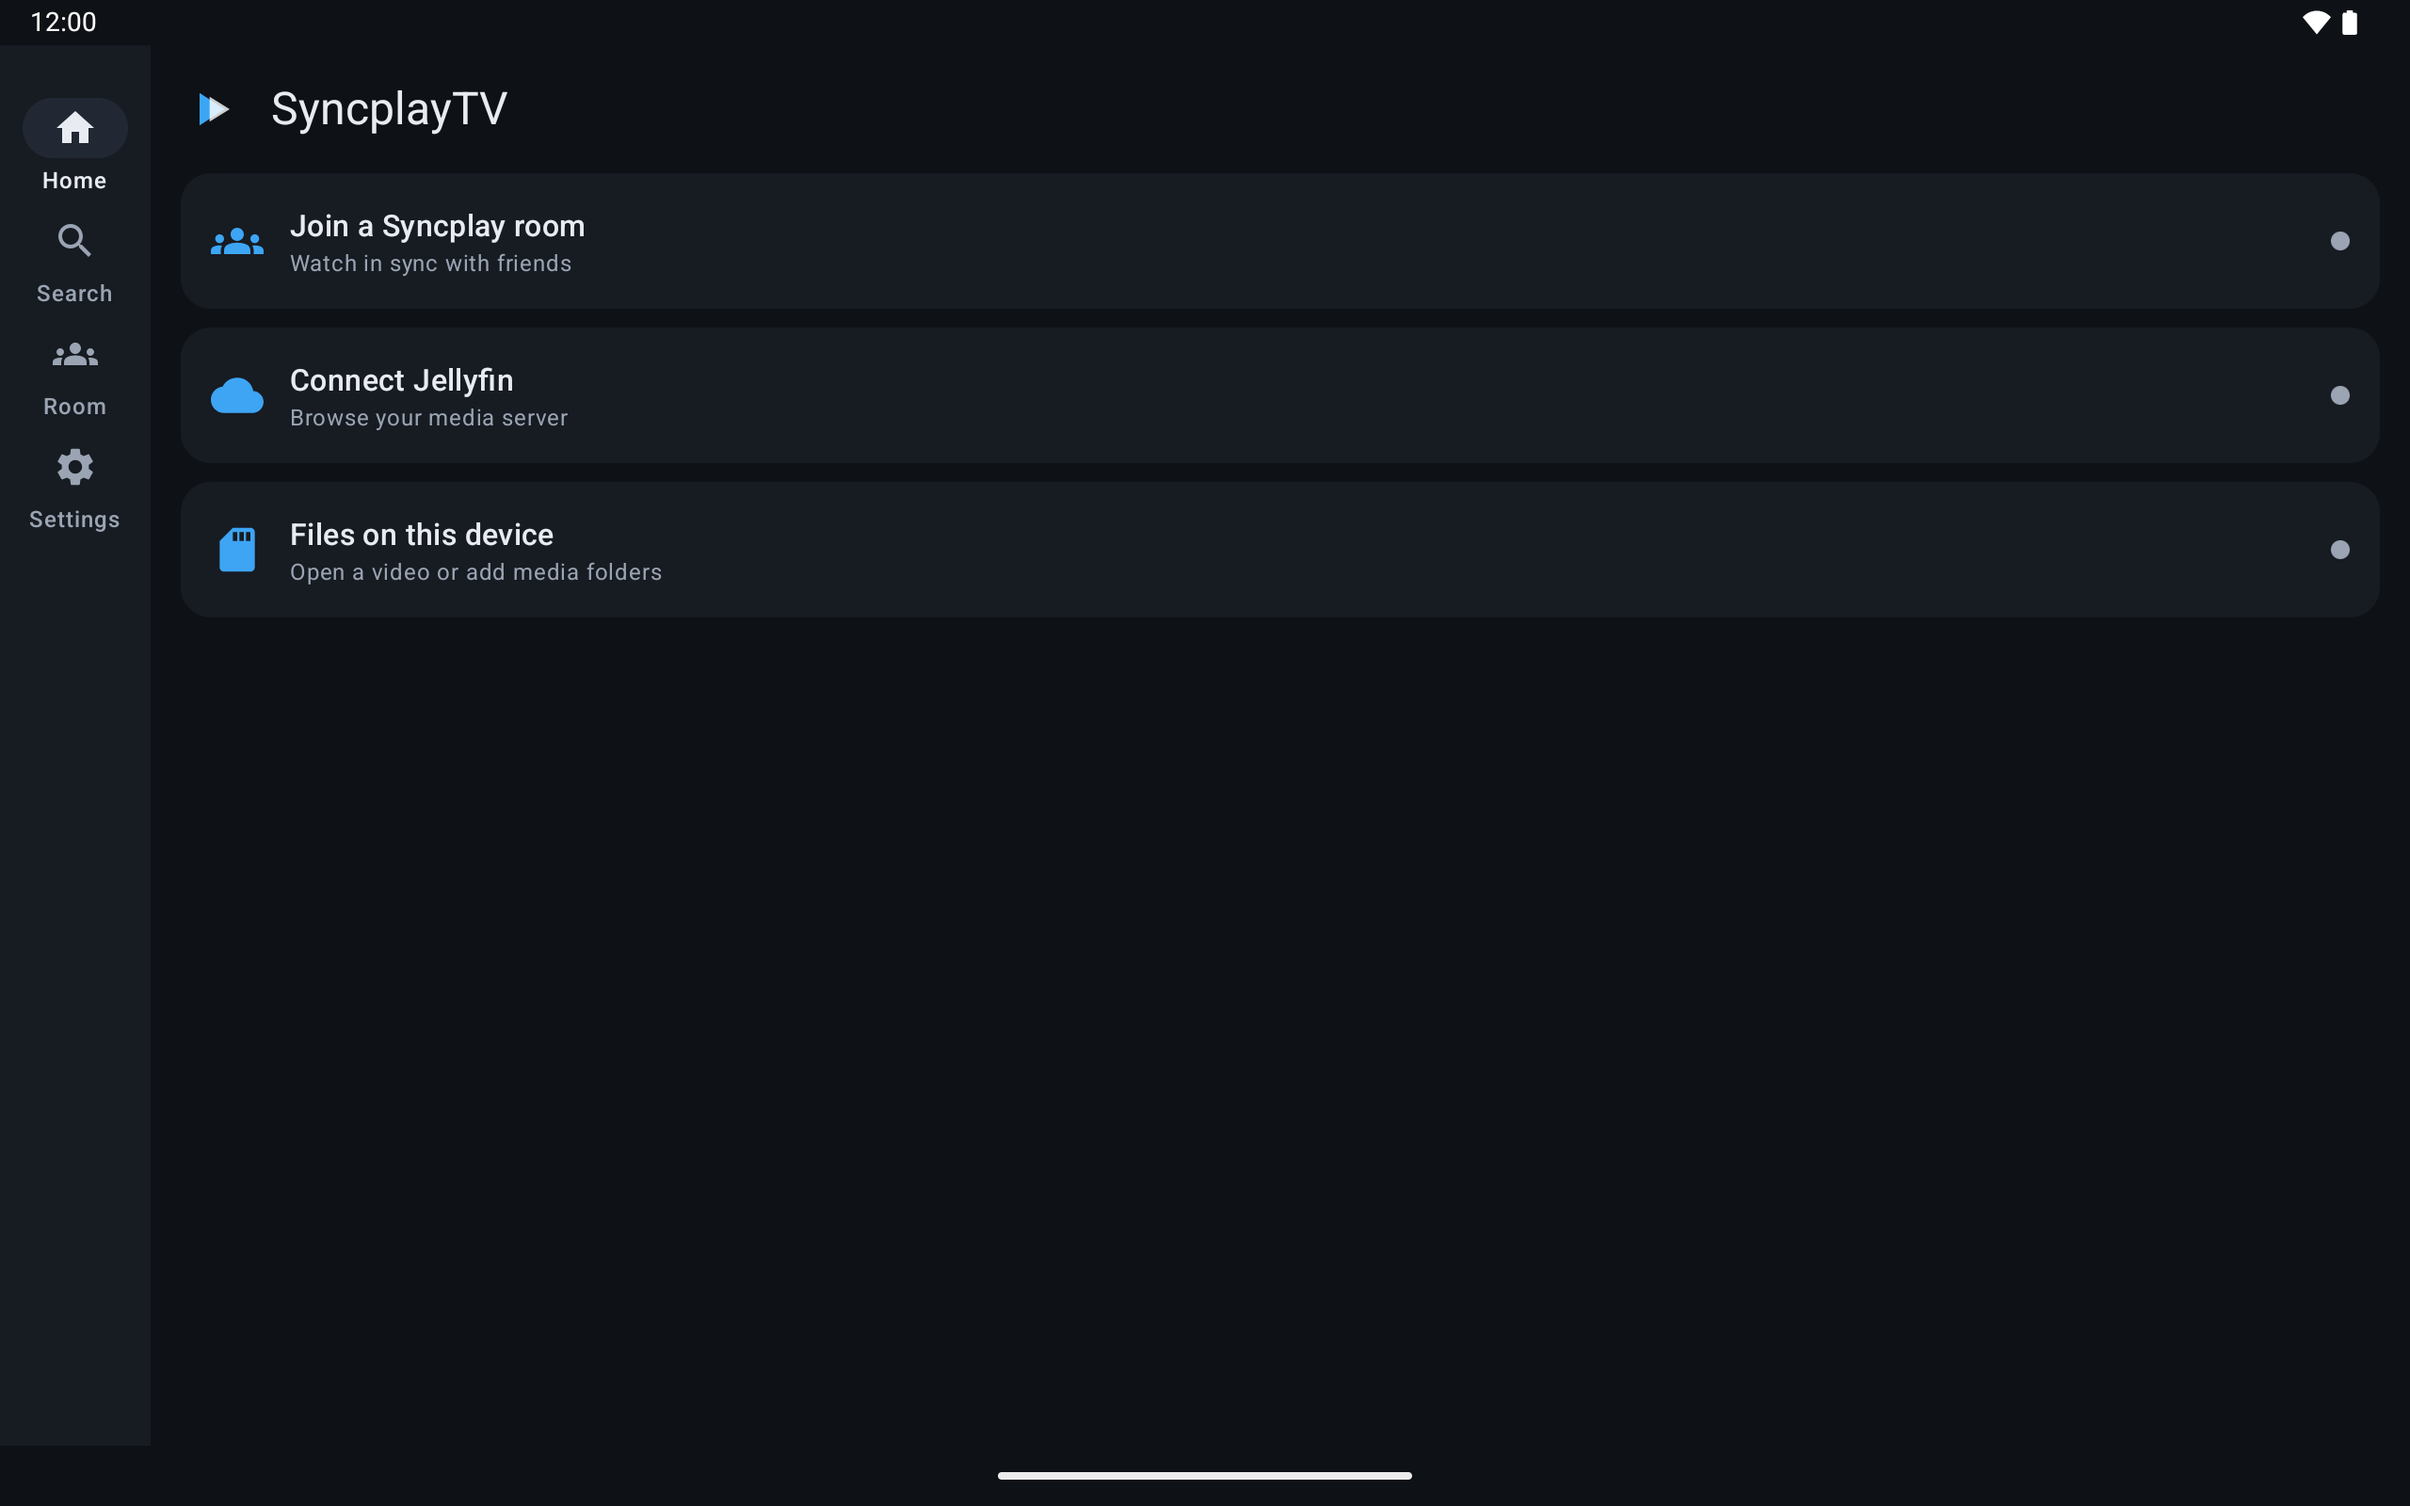
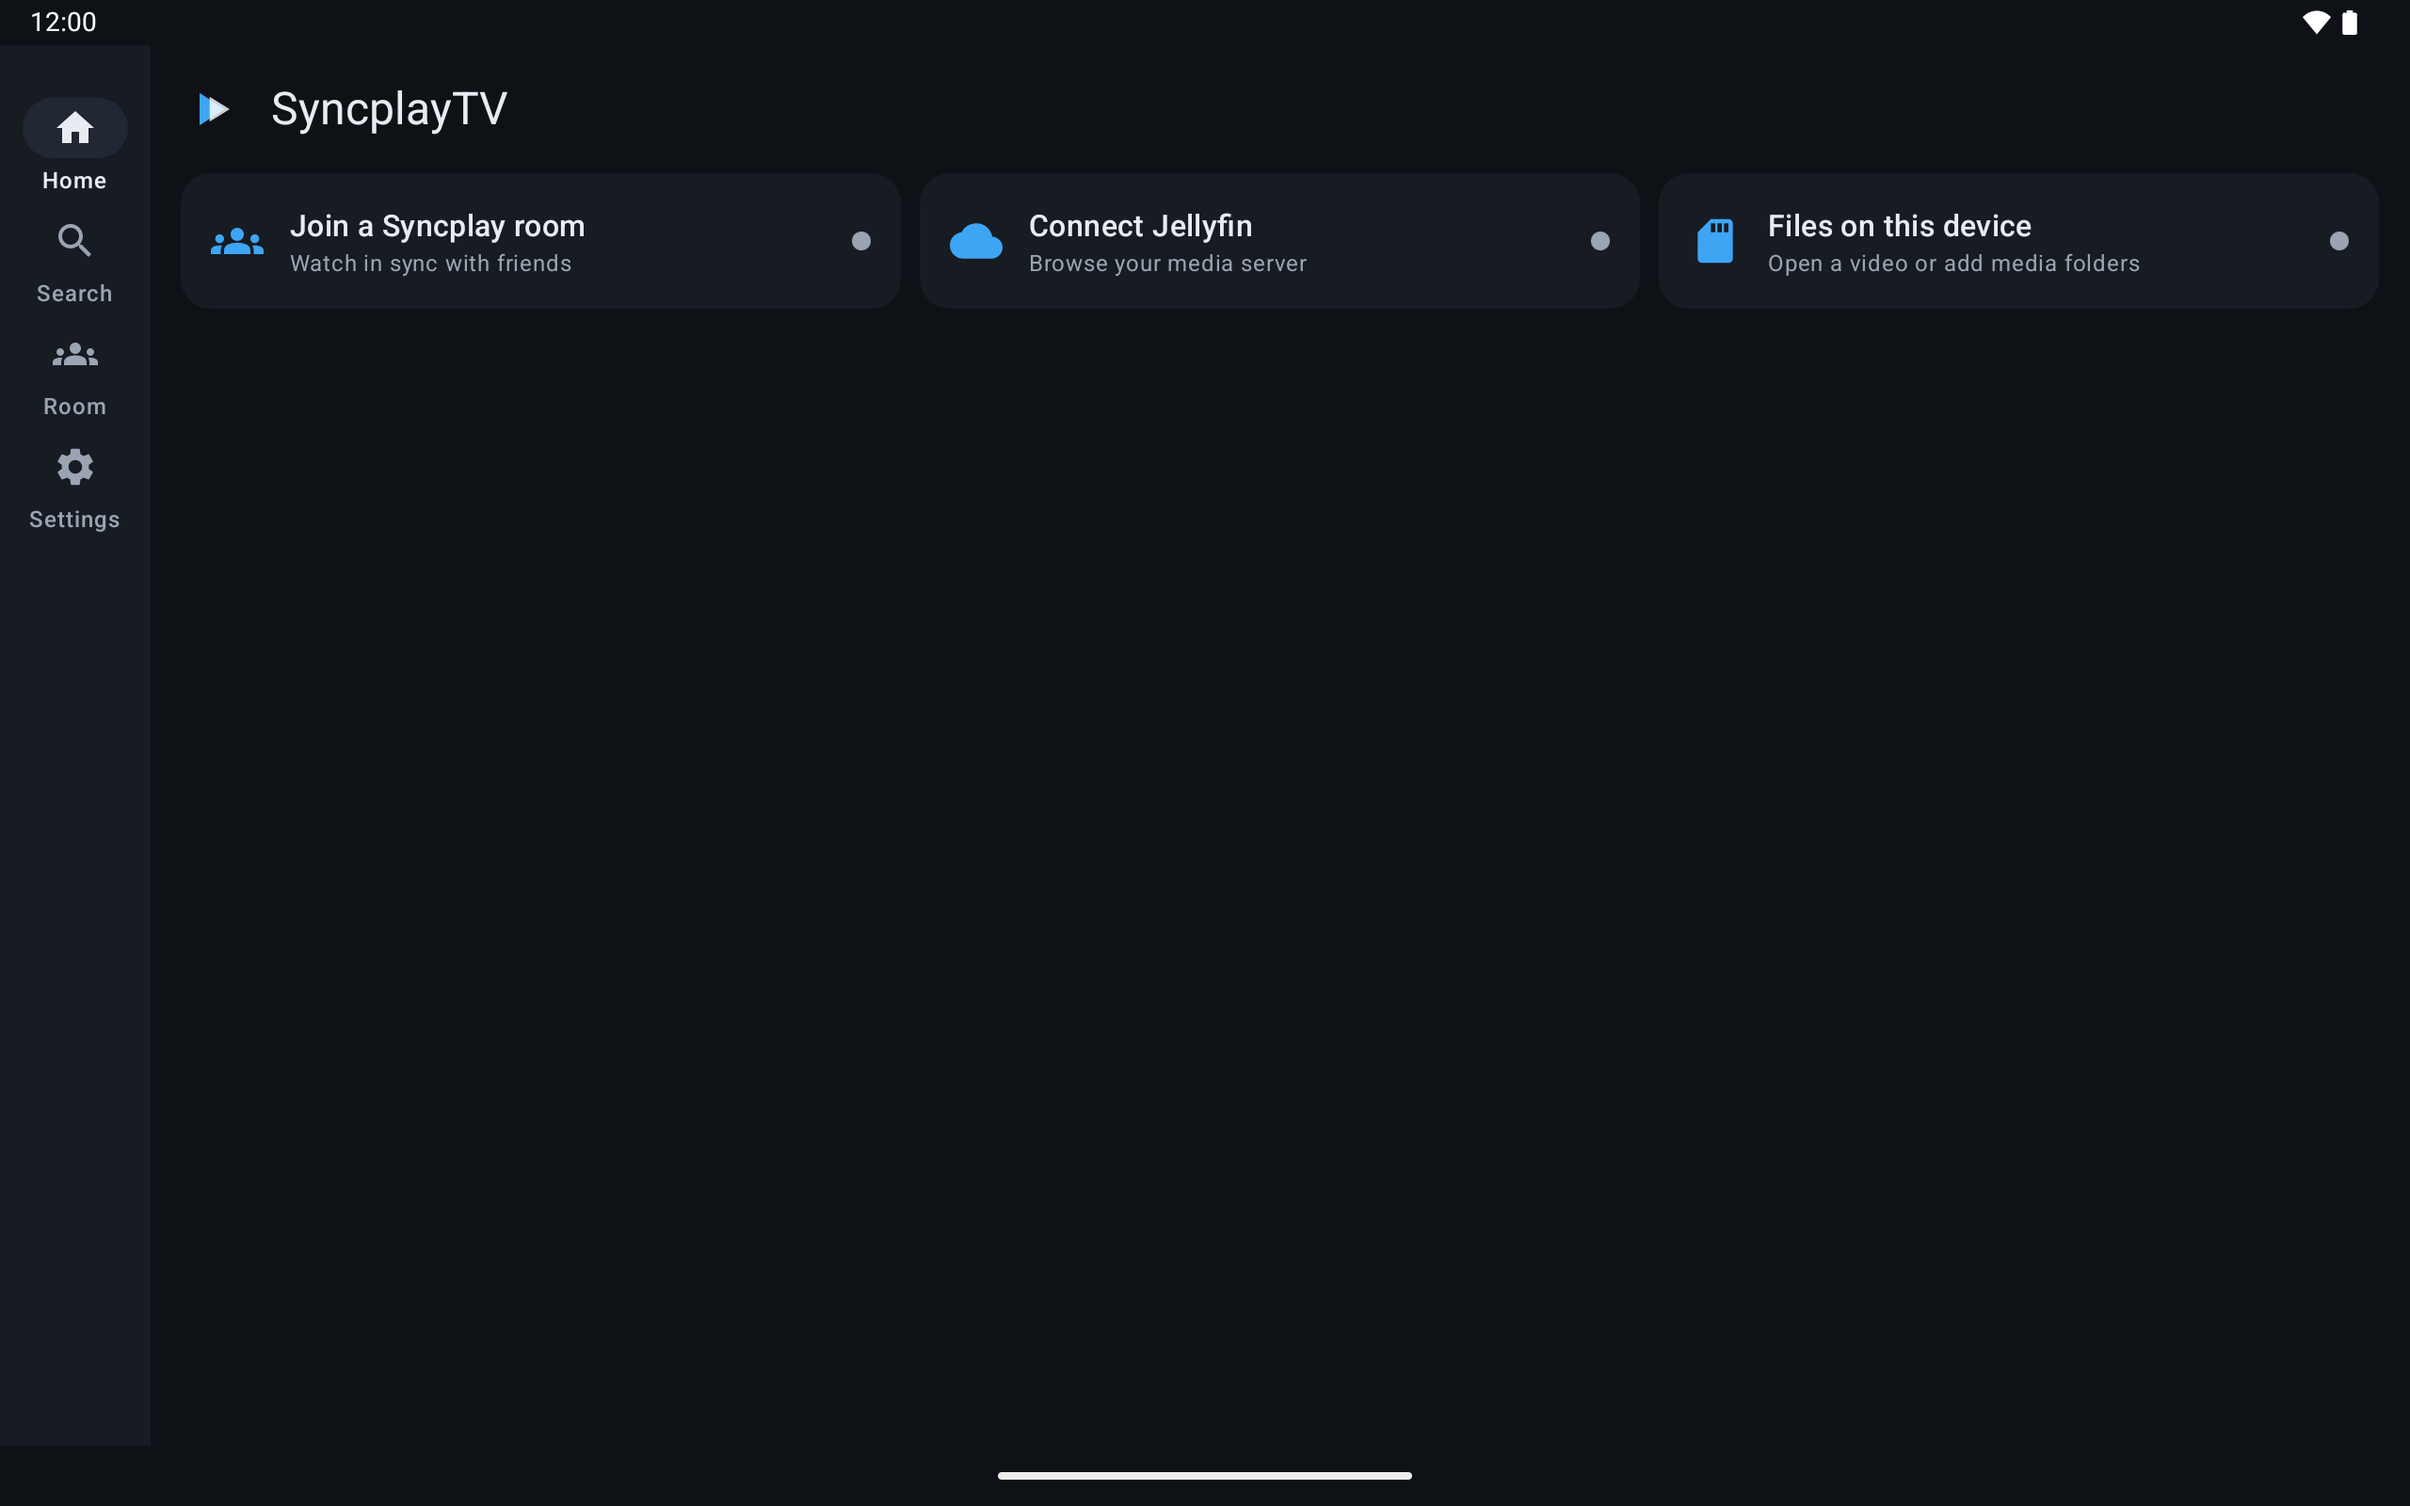
Tablet home: status cards side by side
On tablets the room, Jellyfin and local-files cards share a row (equal columns of at least 280dp) instead of stretching across the whole screen. Phones keep the single column. Tablet home references re-recorded.

diff --git a/shared/src/commonMain/kotlin/com/syncplaytv/ui/mobile/MobileHome.kt b/shared/src/commonMain/kotlin/com/syncplaytv/ui/mobile/MobileHome.kt
@@ -1,7 +1,6 @@
 package com.syncplaytv.ui.mobile
 
 import androidx.compose.foundation.layout.Arrangement
-import androidx.compose.foundation.layout.Column
 import androidx.compose.foundation.layout.PaddingValues
 import androidx.compose.foundation.layout.Row
 import androidx.compose.foundation.layout.Spacer
@@ -33,7 +32,9 @@ import androidx.compose.runtime.setValue
 import androidx.compose.ui.Alignment
 import androidx.compose.ui.Modifier
 import androidx.compose.ui.graphics.Color
+import androidx.compose.ui.layout.Layout
 import androidx.compose.ui.platform.testTag
+import androidx.compose.ui.unit.Constraints
 import androidx.compose.ui.unit.dp
 import androidx.lifecycle.compose.collectAsStateWithLifecycle
 import com.syncplaytv.AppContainer
@@ -74,7 +75,7 @@ fun MobileHomeScreen(container: AppContainer, nav: Navigator, kind: DeviceKind) 
             }
         }
         item {
-            Column(Modifier.padding(horizontal = 16.dp), verticalArrangement = Arrangement.spacedBy(10.dp)) {
+            CardGrid(multiColumn = kind != DeviceKind.PHONE, modifier = Modifier.padding(horizontal = 16.dp)) {
                 val (title, detail, color) = when (room.status) {
                     ConnectionStatus.CONNECTED -> Triple(
                         "Room: ${room.room}",
@@ -151,6 +152,30 @@ fun MobileHomeScreen(container: AppContainer, nav: Navigator, kind: DeviceKind) 
                         )
                     }
                 }
+            }
+        }
+    }
+}
+
+private val MinCardWidth = 280.dp
+private val CardGap = 10.dp
+
+/** One column on phones; on wider screens as many equal columns of at least [MinCardWidth] as fit. */
+@Composable
+private fun CardGrid(multiColumn: Boolean, modifier: Modifier = Modifier, content: @Composable () -> Unit) {
+    Layout(content, modifier) { measurables, constraints ->
+        val gap = CardGap.roundToPx()
+        val width = constraints.maxWidth
+        val columns = if (multiColumn) ((width + gap) / (MinCardWidth.roundToPx() + gap)).coerceIn(1, measurables.size.coerceAtLeast(1)) else 1
+        val cellWidth = (width - gap * (columns - 1)) / columns
+        val rows = measurables.map { it.measure(Constraints.fixedWidth(cellWidth)) }.chunked(columns)
+        val rowHeights = rows.map { row -> row.maxOf { it.height } }
+        val height = rowHeights.sum() + gap * (rows.size - 1).coerceAtLeast(0)
+        layout(width, height) {
+            var y = 0
+            rows.forEachIndexed { i, row ->
+                row.forEachIndexed { j, placeable -> placeable.placeRelative(j * (cellWidth + gap), y) }
+                y += rowHeights[i] + gap
             }
         }
     }
